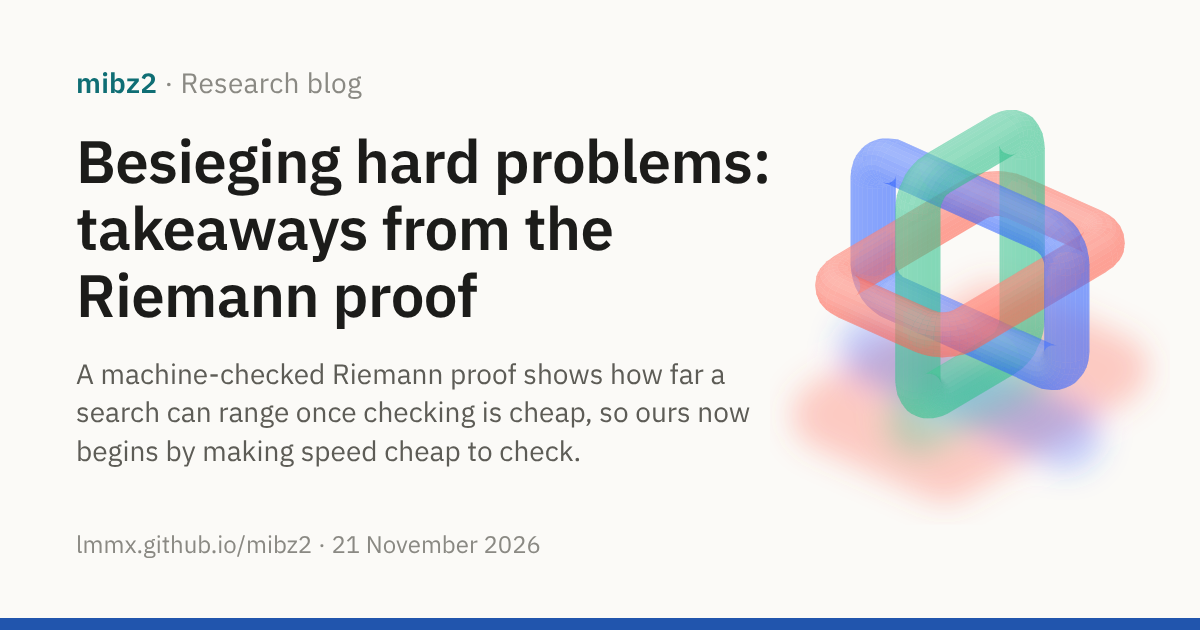
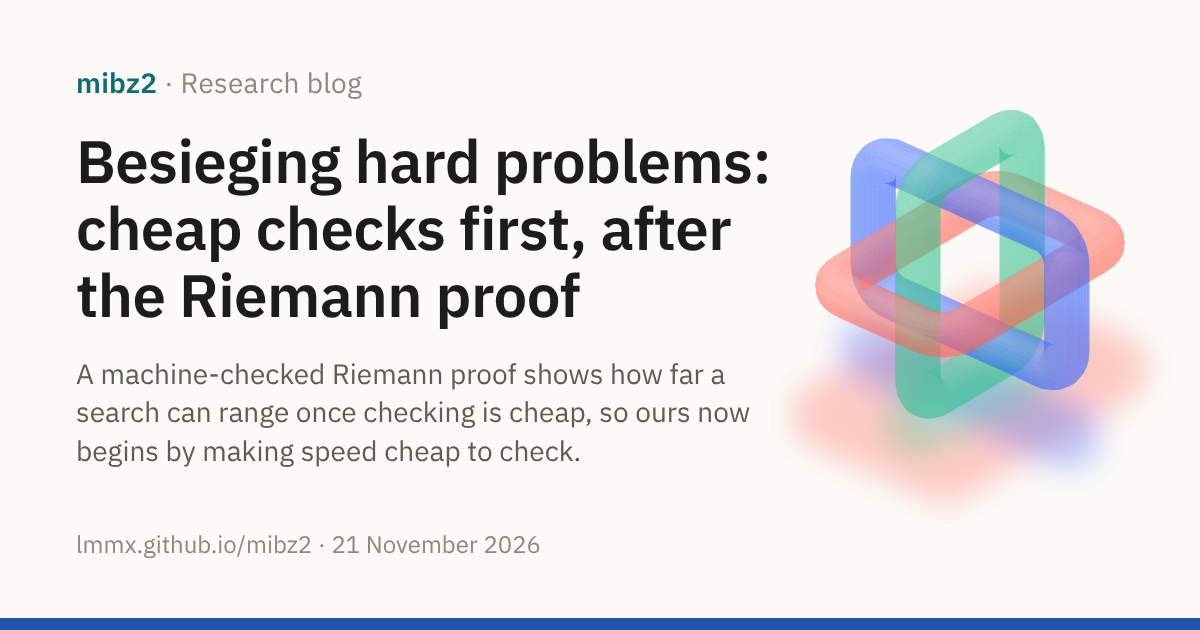
docs(blog): retitle, besieging hard problems, cheap checks first

Changed region(s): [[0.0617, 0.3317, 0.6167, 0.5127]]

diff --git a/docs/site/blog/index.md b/docs/site/blog/index.md
@@ -8,7 +8,7 @@ What mibz2's experiments are finding, and where they go next. The evidence behin
 post is in the [journals](../background/journals.md) and the pull requests they link.
 
 <div class="post-list">
-<a class="post-card" href="2026-11-21-besieging-hard-problems.md"><img src="../assets/social/blog-2026-11-21-besieging-hard-problems.png" alt="" loading="lazy"><span class="post-card-text"><span class="post-card-date">21 November 2026 · Meta</span><span class="post-card-title">Besieging hard problems: what we're taking from the Riemann proof</span><span class="post-card-dek">A machine-checked Riemann proof shows how far a search can range once checking is cheap, so ours now begins by making speed cheap to check.</span></span></a>
+<a class="post-card" href="2026-11-21-besieging-hard-problems.md"><img src="../assets/social/blog-2026-11-21-besieging-hard-problems.png" alt="" loading="lazy"><span class="post-card-text"><span class="post-card-date">21 November 2026 · Meta</span><span class="post-card-title">Besieging hard problems: cheap checks first, after the Riemann proof</span><span class="post-card-dek">A machine-checked Riemann proof shows how far a search can range once checking is cheap, so ours now begins by making speed cheap to check.</span></span></a>
 <a class="post-card" href="2026-11-21-fast-alone-slow-in-a-crowd.md"><img src="../assets/social/blog-2026-11-21-fast-alone-slow-in-a-crowd.png" alt="" loading="lazy"><span class="post-card-text"><span class="post-card-date">21 November 2026 · Research result</span><span class="post-card-title">Fast alone, slow in a crowd: which speed-ups survive many cores</span><span class="post-card-dek">Walking each block in eight lanes made our newest decoding loop 13% faster on one thread, yet 5% slower once eight workers shared the processor.</span></span></a>
 <a class="post-card" href="2026-11-21-sixteen-at-a-stroke.md"><img src="../assets/social/blog-2026-11-21-sixteen-at-a-stroke.png" alt="" loading="lazy"><span class="post-card-text"><span class="post-card-date">21 November 2026 · Research result</span><span class="post-card-title">Sixteen at a stroke: fixed-width writes that stop the processor guessing</span><span class="post-card-dek">Writing sixteen at a stroke and keeping only what it needs spares the processor a guess per run, so mibz2 0.5.8 decodes Wikidata 5% faster on ten cores.</span></span></a>
 <a class="post-card" href="2026-11-20-research-by-obligation.md"><img src="../assets/social/blog-2026-11-20-research-by-obligation.png" alt="" loading="lazy"><span class="post-card-text"><span class="post-card-date">20 November 2026 · Meta</span><span class="post-card-title">Research by obligation: modelling the work, not the algorithms</span><span class="post-card-dek">We now track the work any decoder must pay for rather than the algorithms that pay it, and a claimed Riemann proof has sharpened how we hunt.</span></span></a>

diff --git a/docs/site/blog/2026-11-21-besieging-hard-problems.md b/docs/site/blog/2026-11-21-besieging-hard-problems.md
@@ -1,5 +1,5 @@
 ---
-title: "Besieging hard problems: takeaways from the Riemann proof"
+title: "Besieging hard problems: cheap checks first, after the Riemann proof"
 image: assets/social/blog-2026-11-21-besieging-hard-problems.png
 description: "A machine-checked Riemann proof shows how far a search can range once checking is cheap, so ours now begins by making speed cheap to check."
 ---
@@ -11,7 +11,7 @@ description: "A machine-checked Riemann proof shows how far a search can range o
 [mibz2 · Research blog](index.md)
 {: .post-kicker }
 
-# Besieging hard problems: takeaways from the Riemann proof
+# Besieging hard problems: cheap checks first, after the Riemann proof
 
 A machine-checked Riemann proof shows how far a search can range once checking is cheap, so ours now begins by making speed cheap to check.
 {: .post-dek }
